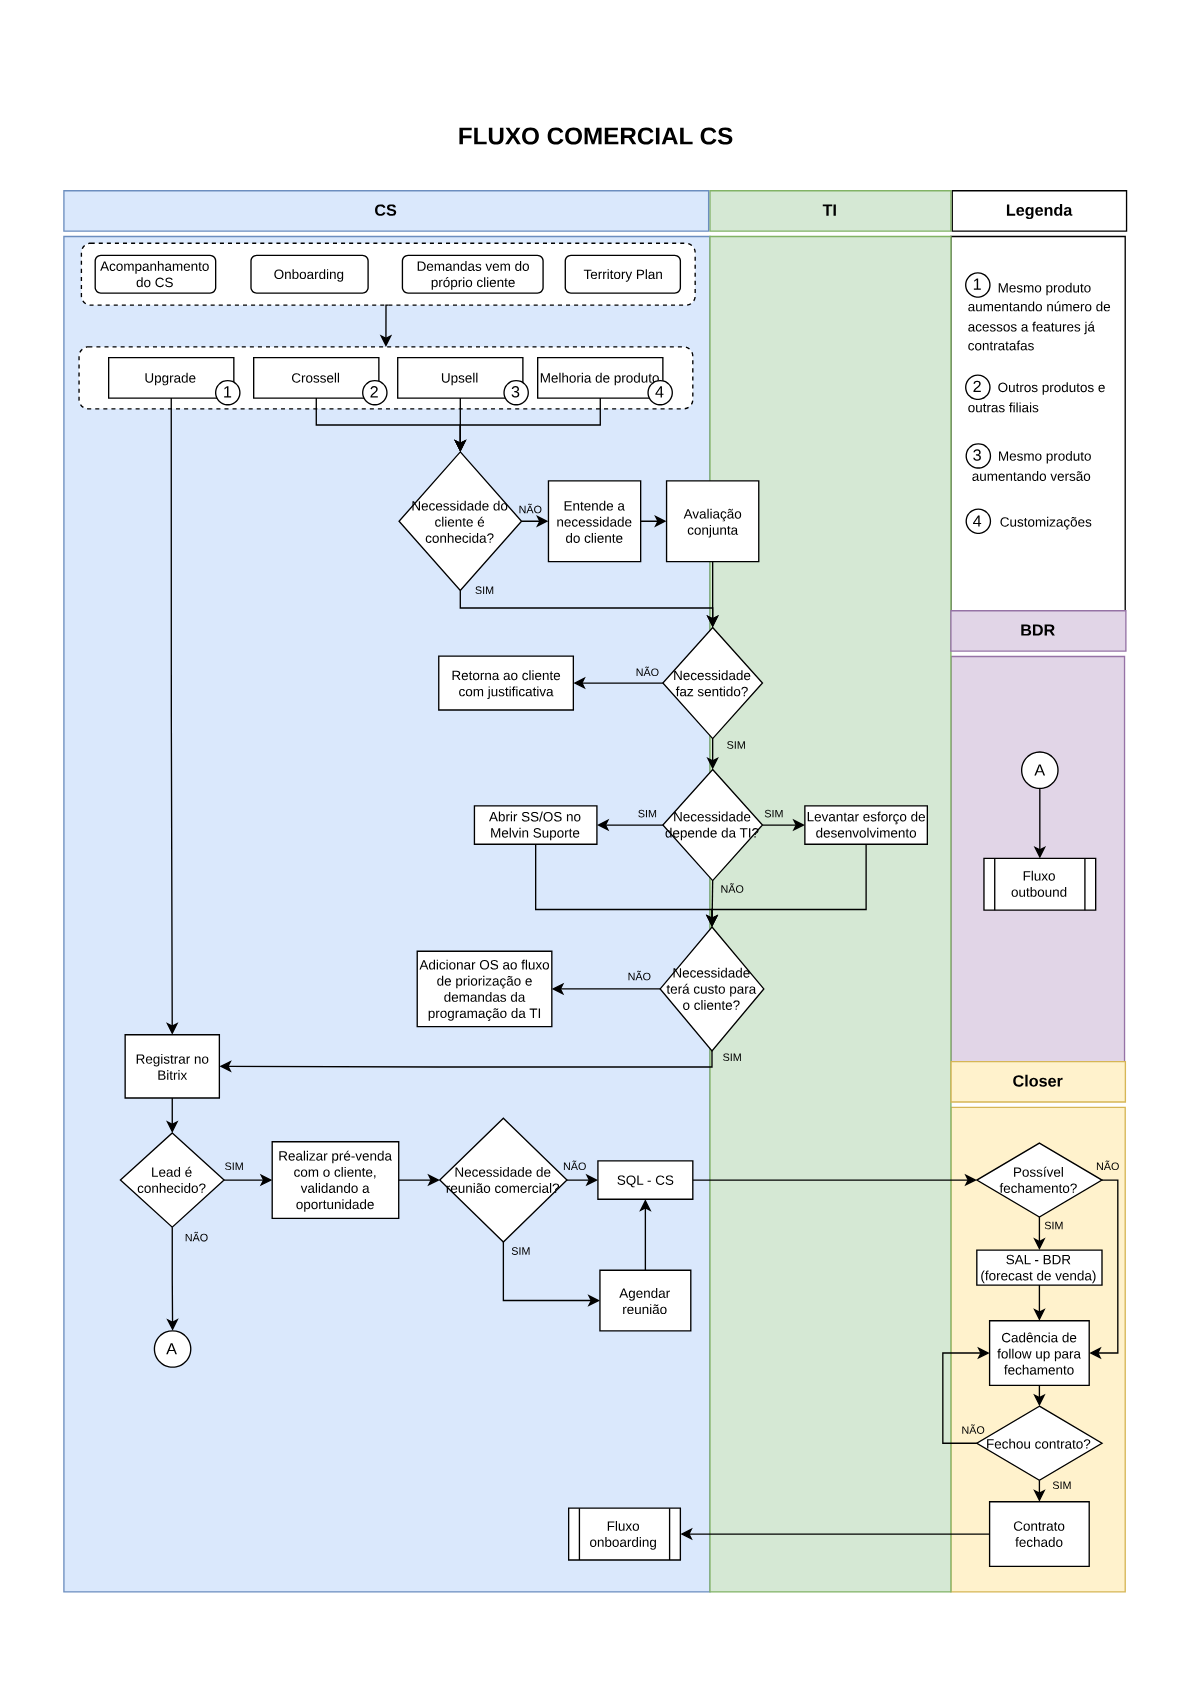
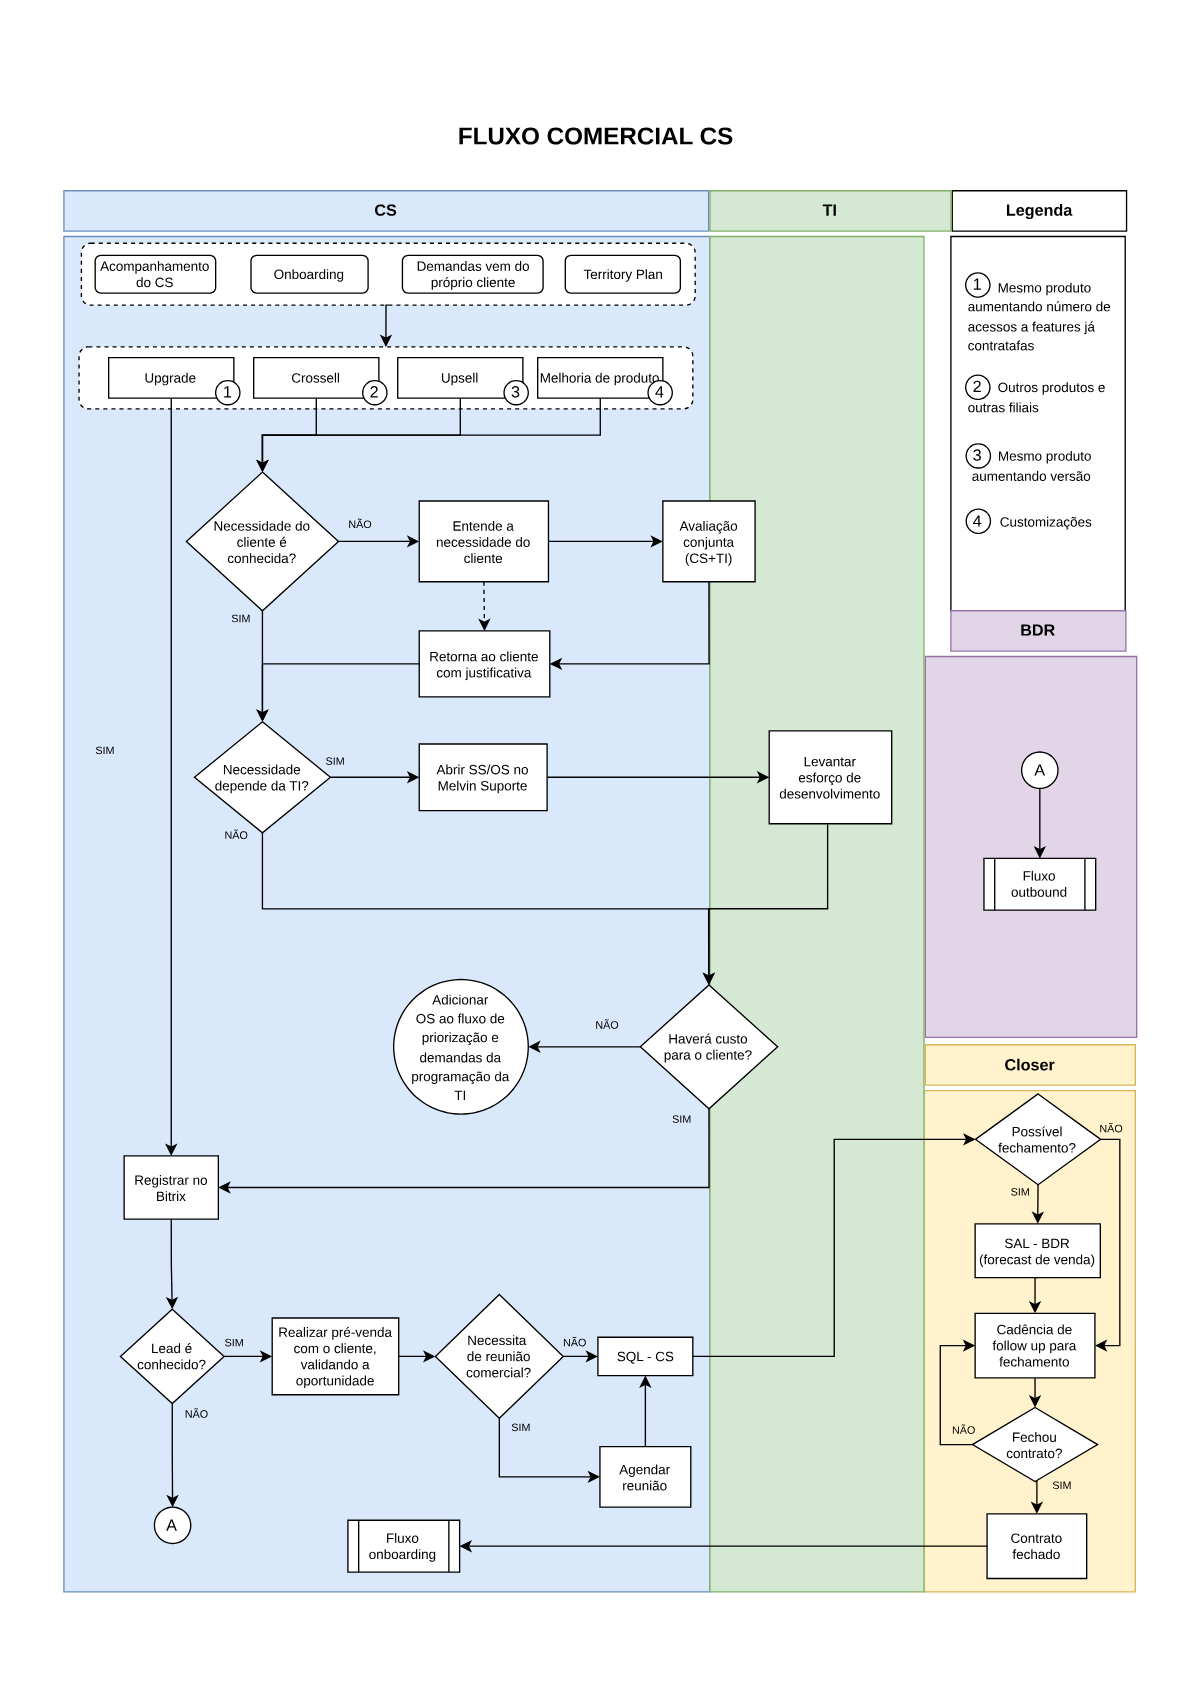
Publish Fluxo Comercial CS v2 from the finalized draw.io PDF.
Default the CS board to the official v2 diagram and keep v1 as history.

diff --git a/index.html b/index.html
@@ -5588,9 +5588,9 @@ Quando puder, confirme o recebimento ou me diga se prefere ajustar prazo/horári
 
             <div class="cadencia-header-block" style="margin-bottom: 18px;">
                 <div class="cadencia-title-line" style="font-size: 1.8rem; color: #22d3ee;">♻ FLUXO COMERCIAL CS</div>
-                <p class="cadencia-subtitle" style="padding-left: 0;">Diagrama <strong>oficial</strong> do PDF Melvin (draw.io) — reprodução pixel-perfect, sem redesenho de setas. Expansão &amp; Retenção · Upsell, Cross-sell, Upgrade, TI/Produto e Warm Intro.</p>
-                <div class="gim-source-chip">Fonte: Fluxos comerciais — Comercial CS.drawio.pdf</div>
-                <p class="crono-card-note" style="margin-top:12px;margin-bottom:0;"><strong>v1</strong> = original no ar. <strong>v2</strong> = em revisão (página de espera até o PDF chegar).</p>
+                <p class="cadencia-subtitle" style="padding-left: 0;">Diagrama <strong>oficial</strong> do PDF Melvin (draw.io) — reprodução pixel-perfect, sem redesenho de setas. Expansão &amp; Retenção · Upsell, Cross-sell, Upgrade, TI e handoff Closer.</p>
+                <div class="gim-source-chip">Fonte: Fluxos comerciais — Comercial CS.drawio.pdf · v2</div>
+                <p class="crono-card-note" style="margin-top:12px;margin-bottom:0;"><strong>v2</strong> = versão final no ar. <strong>v1</strong> = original anterior (histórico).</p>
             </div>
 
             <div class="fluxo-toolbar" id="fluxoCsToolbar">
@@ -5599,30 +5599,23 @@ Quando puder, confirme o recebimento ou me diga se prefere ajustar prazo/horári
                     <button type="button" class="fluxo-tool" data-fluxo-zoom="reset" title="100%">100%</button>
                     <button type="button" class="fluxo-tool" data-fluxo-zoom="in" title="Aumentar">+</button>
                 </div>
-                <div class="fluxo-toolbar-hint">Arraste para navegar · zoom na imagem oficial</div>
+                <div class="fluxo-toolbar-hint">Arraste para navegar · zoom na imagem oficial · clique-no-caminho entra após calibração</div>
                 <div class="fluxo-toolbar-right">
-                    <button type="button" class="fluxo-tool" data-fluxo-pdf="v2" title="v2 em revisão — página de espera">v2</button>
-                    <button type="button" class="fluxo-tool is-active" data-fluxo-pdf="v1" title="Original enviado (draw.io PDF)">v1</button>
+                    <button type="button" class="fluxo-tool is-active" data-fluxo-pdf="v2" title="Versão final do PDF CS">v2</button>
+                    <button type="button" class="fluxo-tool" data-fluxo-pdf="v1" title="Original anterior (histórico)">v1</button>
                     <button type="button" class="fluxo-tool" data-fluxo-fit title="Enquadrar">⊡ Enquadrar</button>
                 </div>
-            </div>
-
-            <div class="fluxo-cs-waiting waiting-page" id="fluxoCsWaiting" hidden>
-                <div class="waiting-badge"><span class="pulse"></span> Em revisão</div>
-                <h2>Fluxo Comercial CS · v2</h2>
-                <p>Aguardando o PDF revisado. Enquanto isso, use a <strong>v1</strong> (original).</p>
-                <div class="waiting-meta">Revenue Operations Book · MELVIN</div>
             </div>
 
             <div id="fluxoCsLive">
             <div class="fluxo-board-wrap fluxo-board-wrap-in fluxo-pdf-wrap" id="fluxoCsViewport">
                 <div class="fluxo-zoom-layer" id="fluxoCsZoom">
-                    <div class="fluxo-pdf-stage" id="fluxoCsStage" data-pdf-ver="v1">
+                    <div class="fluxo-pdf-stage" id="fluxoCsStage" data-pdf-ver="v2">
                         <img
                             id="fluxoCsImg"
                             class="fluxo-pdf-img"
-                            src="assets/fluxo-cs-oficial-v1.png"
-                            alt="Fluxo Comercial CS — diagrama oficial Melvin (original)"
+                            src="assets/fluxo-cs-oficial.png"
+                            alt="Fluxo Comercial CS — diagrama oficial Melvin v2"
                             draggable="false"
                             width="1189"
                             height="1683"
@@ -5640,9 +5633,9 @@ Quando puder, confirme o recebimento ou me diga se prefere ajustar prazo/horári
 
             <div class="fluxo-legend" style="margin-top:14px;">
                 <span><i class="lg-swatch lg-cs"></i> CS</span>
+                <span><i class="lg-swatch lg-sdr"></i> TI</span>
+                <span><i class="lg-swatch lg-bdr"></i> BDR (lead desconhecido → Out)</span>
                 <span><i class="lg-swatch lg-closer"></i> Closer</span>
-                <span><i class="lg-swatch lg-bdr"></i> BDR (rota proibida p/ indicação)</span>
-                <span><i class="lg-swatch lg-mkt"></i> Cliente / TI</span>
             </div>
 
             <!-- 5 blocos Arquitetura (Gemini) -->

diff --git a/app.js b/app.js
@@ -1306,7 +1306,7 @@ initFluxoPdfUX({
     edges: { v2: FLUXO_OUTBOUND_PDF_EDGES, v1: [] }
 });
 
-/* CS: v1 = original. v2 = página de espera até a revisão. */
+/* CS: v2 = PDF final; v1 = original histórico. Path UX após calibração. */
 const FLUXO_CS_PDF_HOTS = [];
 const FLUXO_CS_PDF_EDGES = [];
 
@@ -1320,13 +1320,11 @@ initFluxoPdfUX({
     toolbarId: 'fluxoCsToolbar',
     stripId: 'fluxoCsPathStrip',
     stripTextId: 'fluxoCsPathText',
-    defaultVer: 'v1',
-    waitingId: 'fluxoCsWaiting',
+    defaultVer: 'v2',
     liveId: 'fluxoCsLive',
-    waitingVers: ['v2'],
     readyHint: 'Arraste para navegar · zoom na imagem oficial',
-    waitingHint: 'v2 em revisão — clique em v1 para ver o original',
     sources: {
+        v2: 'assets/fluxo-cs-oficial.png',
         v1: 'assets/fluxo-cs-oficial-v1.png'
     },
     hots: { v2: FLUXO_CS_PDF_HOTS, v1: [] },
